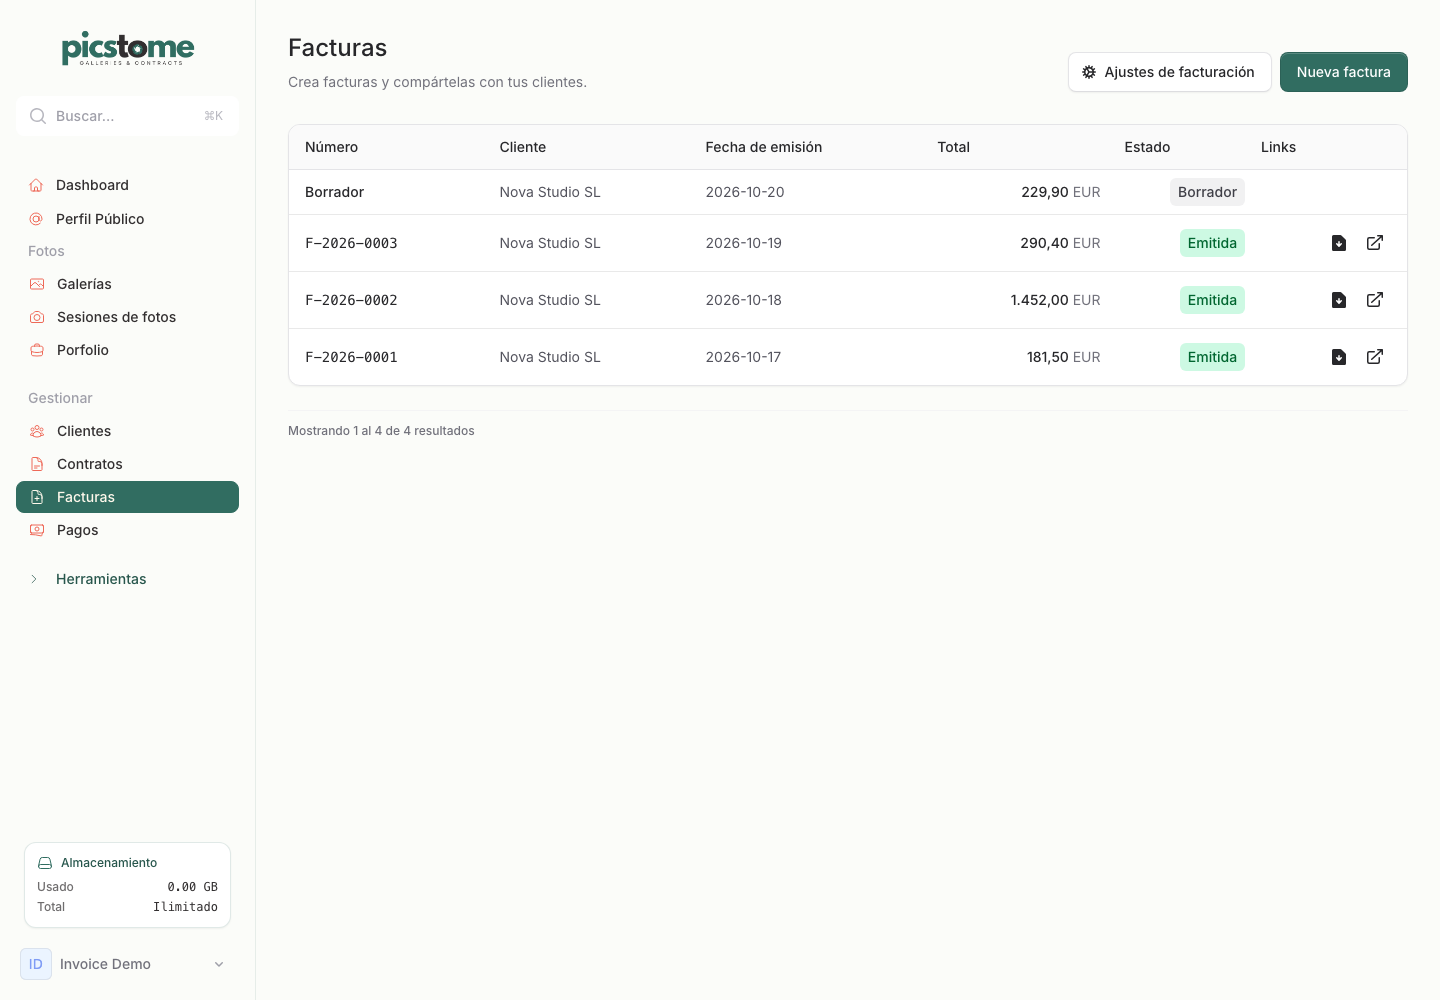
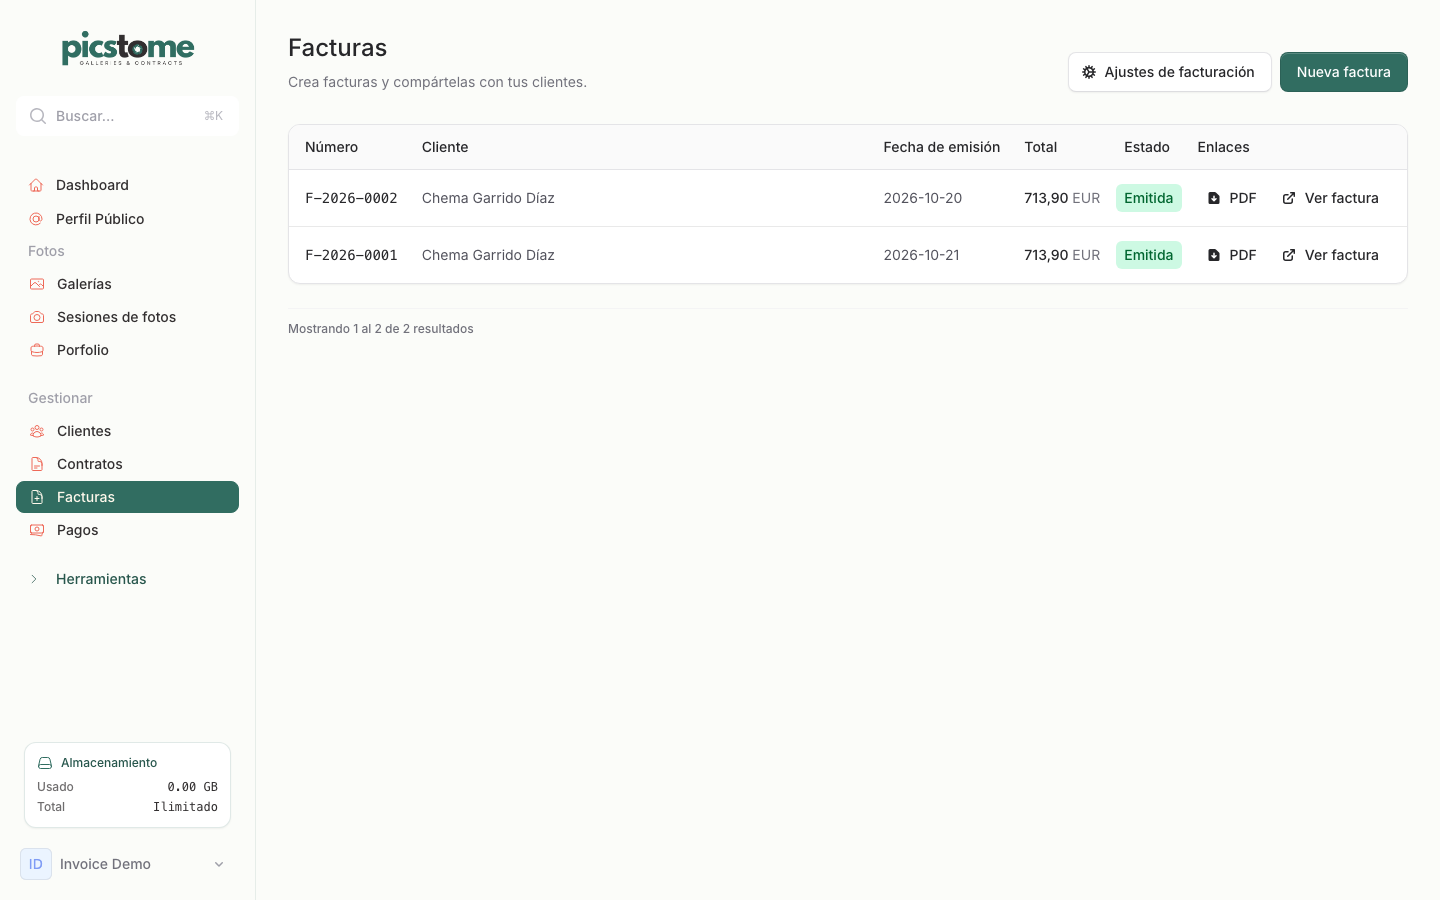
feat(invoicing): regenerate the public link and label the document links
- The public link of an invoice can now be generated again after it has
  been deactivated. The new link works immediately and the previous one
  keeps returning 404. The operation is recorded in the audit trail.
- The link is never printed again: the PDFs already delivered keep the
  previous link, which is stated in the detail.
- Deactivating the link asks for confirmation and explains the effect.
- The list shows the two document links with their label: PDF and
  "Ver factura", with icons only on mobile.
- The table columns are balanced: the client absorbs the remaining space
  and the rest stay snug, instead of the even gaps of before.

Refs #250

diff --git a/resources/views/pages/invoices/⚡show.blade.php b/resources/views/pages/invoices/⚡show.blade.php
@@ -3,6 +3,7 @@
 use App\Models\Invoice;
 use App\Models\InvoiceEvent;
 use App\Services\InvoiceFingerprintService;
+use App\Services\InvoicePdfService;
 use App\Traits\FormatsMoney;
 use Flux\Flux;
 use Illuminate\Support\Facades\Auth;
@@ -38,7 +39,7 @@ new class extends Component
 
     public function revokeLink(): void
     {
-        $this->authorize('revokeLink', $this->invoice);
+        $this->authorize('managePublicLink', $this->invoice);
 
         if (blank($this->invoice->public_token)) {
             return;
@@ -51,7 +52,24 @@ new class extends Component
 
         $this->invoice->recordEvent(InvoiceEvent::LINK_REVOKED, Auth::user());
 
-        Flux::toast(__('The public link has been revoked.'), variant: 'success');
+        Flux::toast(__('The public link has been deactivated.'), variant: 'success');
+    }
+
+    /**
+     * Create a new public link for an invoice whose link was revoked.
+     */
+    public function regenerateLink(): void
+    {
+        $this->authorize('managePublicLink', $this->invoice);
+
+        $this->invoice->update([
+            'public_token' => app(InvoicePdfService::class)->newPublicToken(),
+            'public_token_revoked_at' => null,
+        ]);
+
+        $this->invoice->recordEvent(InvoiceEvent::LINK_REGENERATED, Auth::user());
+
+        Flux::toast(__('A new public link has been generated.'), variant: 'success');
     }
 
     public function rectify(): void
@@ -212,9 +230,13 @@ new class extends Component
                 </dl>
             </div>
 
-            @if (filled($this->invoice->public_token))
-                <div class="rounded-xl border border-zinc-200 bg-white p-5 shadow-xs dark:border-white/10 dark:bg-white/5">
-                    <flux:heading level="3" size="sm">{{ __('Public link') }}</flux:heading>
+            <div class="rounded-xl border border-zinc-200 bg-white p-5 shadow-xs dark:border-white/10 dark:bg-white/5">
+                <flux:heading level="3" size="sm">{{ __('Public link') }}</flux:heading>
+                <flux:subheading size="sm">
+                    {{ __('Share it with your client so they can check the invoice online.') }}
+                </flux:subheading>
+
+                @if (filled($this->invoice->public_token))
                     <flux:input
                         icon="link"
                         :value="route('invoices.public.show', $this->invoice->public_token)"
@@ -222,24 +244,43 @@ new class extends Component
                         copyable
                         class="mt-3"
                     />
+
                     <div class="mt-3 flex flex-wrap items-center gap-2">
                         <flux:button
                             size="sm"
-                            variant="ghost"
+                            variant="outline"
                             icon="arrow-top-right-on-square"
                             :href="route('invoices.public.show', $this->invoice->public_token)"
                             target="_blank"
                             rel="noopener noreferrer"
                         >
-                            {{ __('Open public page') }}
+                            {{ __('View invoice') }}
                         </flux:button>
 
-                        <flux:button variant="ghost" size="sm" wire:click="revokeLink">
-                            {{ __('Revoke link') }}
-                        </flux:button>
+                        <flux:modal.trigger name="revoke-link">
+                            <flux:button size="sm" variant="ghost" icon="link-slash">
+                                {{ __('Deactivate link') }}
+                            </flux:button>
+                        </flux:modal.trigger>
                     </div>
-                </div>
-            @endif
+                @else
+                    <div class="mt-3 flex flex-wrap items-center gap-2">
+                        <flux:button size="sm" variant="outline" icon="link" wire:click="regenerateLink">
+                            {{ __('Generate a new link') }}
+                        </flux:button>
+
+                        @if ($this->invoice->public_token_revoked_at)
+                            <flux:text size="sm" class="text-zinc-500">
+                                {{ __('Deactivated on :date', ['date' => $this->invoice->public_token_revoked_at->format('Y-m-d H:i')]) }}
+                            </flux:text>
+                        @endif
+                    </div>
+
+                    <flux:text size="sm" class="mt-3 text-zinc-500">
+                        {{ __('The link printed in the PDF cannot be changed: the already delivered documents keep the previous one.') }}
+                    </flux:text>
+                @endif
+            </div>
         </div>
 
         <div class="space-y-6">
@@ -369,5 +410,13 @@ new class extends Component
         :message="__('Draft invoices can be deleted without any trace. Issued invoices can never be deleted.')"
         :confirm-label="__('Delete')"
         method="delete"
+    />
+
+    <x-confirm-modal
+        name="revoke-link"
+        :title="__('Deactivate the public link?')"
+        :message="__('Whoever has the link will stop seeing the invoice. The invoice and its PDF do not change.')"
+        :confirm-label="__('Deactivate link')"
+        method="revokeLink"
     />
 </div>

diff --git a/resources/views/pages/invoices/⚡index.blade.php b/resources/views/pages/invoices/⚡index.blade.php
@@ -118,7 +118,7 @@ new class extends Component
             <x-table id="table">
                 <x-table.columns class="border-b border-zinc-200 bg-zinc-50 dark:border-white/10 dark:bg-white/5">
                     <x-table.column>{{ __('Number') }}</x-table.column>
-                    <x-table.column class="hidden sm:table-cell">{{ __('Client') }}</x-table.column>
+                    <x-table.column class="hidden w-full sm:table-cell">{{ __('Client') }}</x-table.column>
                     <x-table.column class="hidden sm:table-cell">{{ __('Issue date') }}</x-table.column>
                     <x-table.column align="end">{{ __('Total') }}</x-table.column>
                     <x-table.column align="end" class="hidden sm:table-cell">{{ __('Status') }}</x-table.column>
@@ -160,7 +160,7 @@ new class extends Component
                                     </span>
                                 </div>
                             </x-table.cell>
-                            <x-table.cell variant="muted" class="hidden sm:table-cell">
+                            <x-table.cell variant="muted" class="hidden w-full sm:table-cell">
                                 {{ $invoice->customer?->name ?? '—' }}
                             </x-table.cell>
                             <x-table.cell variant="muted" class="hidden sm:table-cell">
@@ -191,7 +191,9 @@ new class extends Component
                                             icon="document-arrow-down"
                                             :href="route('invoices.pdf', $invoice)"
                                             :aria-label="__('Download PDF')"
-                                        />
+                                        >
+                                            <span class="hidden sm:inline">{{ __('PDF') }}</span>
+                                        </flux:button>
                                     @endif
 
                                     @if (filled($invoice->public_token))
@@ -202,8 +204,10 @@ new class extends Component
                                             :href="route('invoices.public.show', $invoice->public_token)"
                                             target="_blank"
                                             rel="noopener noreferrer"
-                                            :aria-label="__('Public view')"
-                                        />
+                                            :aria-label="__('View invoice')"
+                                        >
+                                            <span class="hidden sm:inline">{{ __('View invoice') }}</span>
+                                        </flux:button>
                                     @endif
                                 </div>
                             </x-table.cell>

diff --git a/resources/views/pages/invoices/⚡show.test.php b/resources/views/pages/invoices/⚡show.test.php
@@ -55,6 +55,33 @@ it('revokes the public link', function () {
         ->and($invoice->events()->pluck('event'))->toContain(InvoiceEvent::LINK_REVOKED);
 });
 
+it('generates a new link after deactivating it', function () {
+    $invoice = $this->issuance->issue(draftInvoice($this->team));
+    $oldToken = $invoice->public_token;
+
+    Livewire::actingAs($this->user)
+        ->test('pages::invoices.show', ['invoice' => $invoice])
+        ->call('revokeLink')
+        ->assertHasNoErrors();
+
+    expect($invoice->fresh()->public_token)->toBeNull();
+
+    Livewire::actingAs($this->user)
+        ->test('pages::invoices.show', ['invoice' => $invoice->fresh()])
+        ->call('regenerateLink')
+        ->assertHasNoErrors();
+
+    $invoice = $invoice->fresh();
+
+    expect($invoice->public_token)->toHaveLength(40)
+        ->and($invoice->public_token)->not->toBe($oldToken)
+        ->and($invoice->public_token_revoked_at)->toBeNull()
+        ->and($invoice->events()->pluck('event'))->toContain(InvoiceEvent::LINK_REGENERATED);
+
+    $this->get('/i/'.$invoice->public_token)->assertOk();
+    $this->get('/i/'.$oldToken)->assertNotFound();
+});
+
 it('creates a corrective invoice with the reason', function () {
     $invoice = $this->issuance->issue(draftInvoice($this->team));
 

diff --git a/app/Policies/InvoicePolicy.php b/app/Policies/InvoicePolicy.php
@@ -66,9 +66,9 @@ class InvoicePolicy
     }
 
     /**
-     * Determine whether the user can revoke the public link of the invoice.
+     * Determine whether the user can revoke or regenerate the public link.
      */
-    public function revokeLink(User $user, Invoice $invoice): bool
+    public function managePublicLink(User $user, Invoice $invoice): bool
     {
         return $invoice->team->is($user->currentTeam);
     }

diff --git a/app/Models/InvoiceEvent.php b/app/Models/InvoiceEvent.php
@@ -32,6 +32,8 @@ class InvoiceEvent extends Model
 
     public const LINK_REVOKED = 'link_revoked';
 
+    public const LINK_REGENERATED = 'link_regenerated';
+
     public const UPDATED_AT = null;
 
     protected $guarded = [];

diff --git a/docs/invoicing.md b/docs/invoicing.md
@@ -164,9 +164,12 @@ so the document a client received always matches the data of the invoice.
 ## Public verification
 
 Every issued invoice gets a public link `/i/{token}` with a random token of 40
-characters. The link can be revoked, and the page and the PDF return a 404
-afterwards. The public pages are not indexed (`X-Robots-Tag`) and do not leak
-the link through the referrer (`Referrer-Policy: no-referrer`).
+characters. The link can be deactivated, and the page and the public PDF return
+a 404 afterwards; a new link can be generated later from the invoice detail.
+The link printed in the PDF is never changed, so the already delivered
+documents keep the previous one. The public pages are not indexed
+(`X-Robots-Tag`) and do not leak the link through the referrer
+(`Referrer-Policy: no-referrer`).
 
 The public page shows the data of the invoice, the breakdown of the VAT and
 the IRPF, the fingerprint, the position in the chain, the state and the
